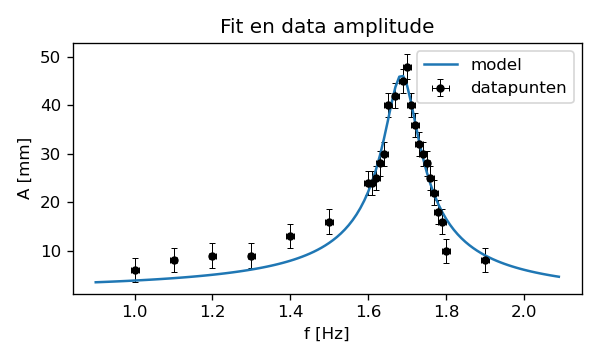
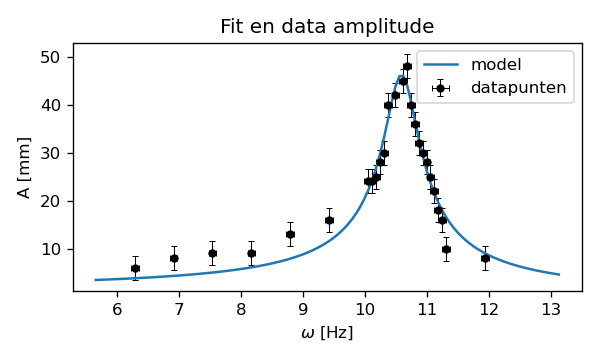
2pi fixen

diff --git a/Practicum6/data-analyse.py b/Practicum6/data-analyse.py
@@ -5,21 +5,21 @@ import matplotlib.pyplot as plt
 file=np.loadtxt("Practicum6/data.txt", delimiter=' ').T
 file2=np.loadtxt("Practicum6/data2.txt", delimiter=' ').T
 
-f=file[0]/(2*np.pi)
+f=file[0]*(2*np.pi)
 A=file[1]
 phi=file[2]*np.pi/180
 
-f2=file2[0]/(2*np.pi)
+f2=file2[0]*(2*np.pi)
 A2=file2[1]
 phi2=file2[2]*np.pi/180
 
 
-f_E = np.ones_like(f)*0.01/(2*np.pi)
+f_E = np.ones_like(f)*0.01*(2*np.pi)
 A_E = np.ones_like(f)*2.5
 phi_E = np.ones_like(f)*3*np.pi/180
 
-f_E2 = np.ones_like(f2)*0.01/(2*np.pi)
-A_E2 = np.ones_like(f2)*1.0
+f_E2 = np.ones_like(f2)*0.01*(2*np.pi)
+A_E2 = np.ones_like(f2)*1
 phi_E2 = np.ones_like(f2)*3*np.pi/180
 
 #data 1 amplitude plotten
@@ -38,19 +38,20 @@ if False:
 
 #data1 fitten amplitude    
 if False:
-    param_names = ['F', 'w', 'm', 'n']
-    initial_guess = [0.1, 0.1, 0.1, 0.1]
+    print(len(f_E))
+    print(len(A_E))
+    param_names = ['w','B','C']
+    initial_guess = [2,0.1,0.01]
 
     def model(params, x):
-        F, w, m, n = params
-        return F/( m*np.sqrt((w**2 - x**2)**2 + (x*(n/m))**2) )
-    
+        w,B,C = params
+        return C/(np.sqrt((x**2-w**2)**2+(x*B)**2))
     data = ((f, f_E), (A, A_E))
 
     X_sq(data, param_names, initial_guess, model,
         root_attempts=None, datafile=None,
         VERBOSE=False, LaTeX=True,
-        PLOT=True, graf1_title='Fit en data amplitude', graf1_x_label='f [Hz]', graf1_y_label='A [mm]'
+        PLOT=True, graf1_title='Fit en data amplitude', graf1_x_label=r'$\omega$ [Hz]', graf1_y_label='A [mm]'
         )
 #data1 fitten frequentie    
 if False:
@@ -83,14 +84,14 @@ if False:
 
     plt.show()
 # data 2 amplitude fit
-if False:
-     param_names = ['F', 'w', 'm', 'n']
-     initial_guess = [0.1, 0.1, 0.1, 0.1]
+if True:
+     param_names = ['w','B','C']
+     initial_guess = [10,0.1,1]
 
      def model(params, x):
-         F, w, m, n = params
-         return F/( m*np.sqrt((w**2 - x**2)**2 + (x*(n/m))**2) )
-     
+        w,B,C = params
+        return C/(np.sqrt((x**2-w**2)**2+(x*B)**2))
+
      data = ((f2, f_E2), (A2, A_E2))
 
      X_sq(data, param_names, initial_guess, model,
@@ -115,7 +116,7 @@ if False:
         PLOT=True, graf1_title=r'Fit voor $\phi$(f)', graf1_x_label='f [Hz]', graf1_y_label=r'$1/tan(\phi)$ [/]'
         )
 #frequentie fit 2 niet lineair
-if True:
+if False:
     param_names = ['w', 'C','S']
     initial_guess = [0.26, -0.07, 1]
 
@@ -132,7 +133,7 @@ if True:
         )
 
  # frequentie fit1 semi-lineair DEZE IS ASS
-if True:
+if False:
     param_names = ['w', 'C']
     initial_guess = [1.69, 0.006]
 

diff --git a/Practicum6/chemie.py b/Practicum6/chemie.py
@@ -1,0 +1,20 @@
+from fit_file import X_sq
+import numpy as np
+import matplotlib.pyplot as plt
+
+t=np.array([273,298,318])
+c=np.array([7.87e3,3.46e5,4.98e6])
+t_err=np.array([0,0,0])
+c_err=np.array([0.1,0.1,0.1])
+c2=np.log(c)
+initial_guess=[-0.0001,1]
+def model(params,x):
+        a,b=params
+        return a/x+b
+data=((t,t_err),(c2,c_err))
+param_names=['a','b']
+X_sq(data, param_names, initial_guess, model,
+         root_attempts=None, datafile=None,
+         VERBOSE=False, LaTeX=True,
+         PLOT=True, graf1_title='Fit en data amplitude', graf1_x_label=r'$\omega$ [Hz]', graf1_y_label='A [mm]'
+        )
